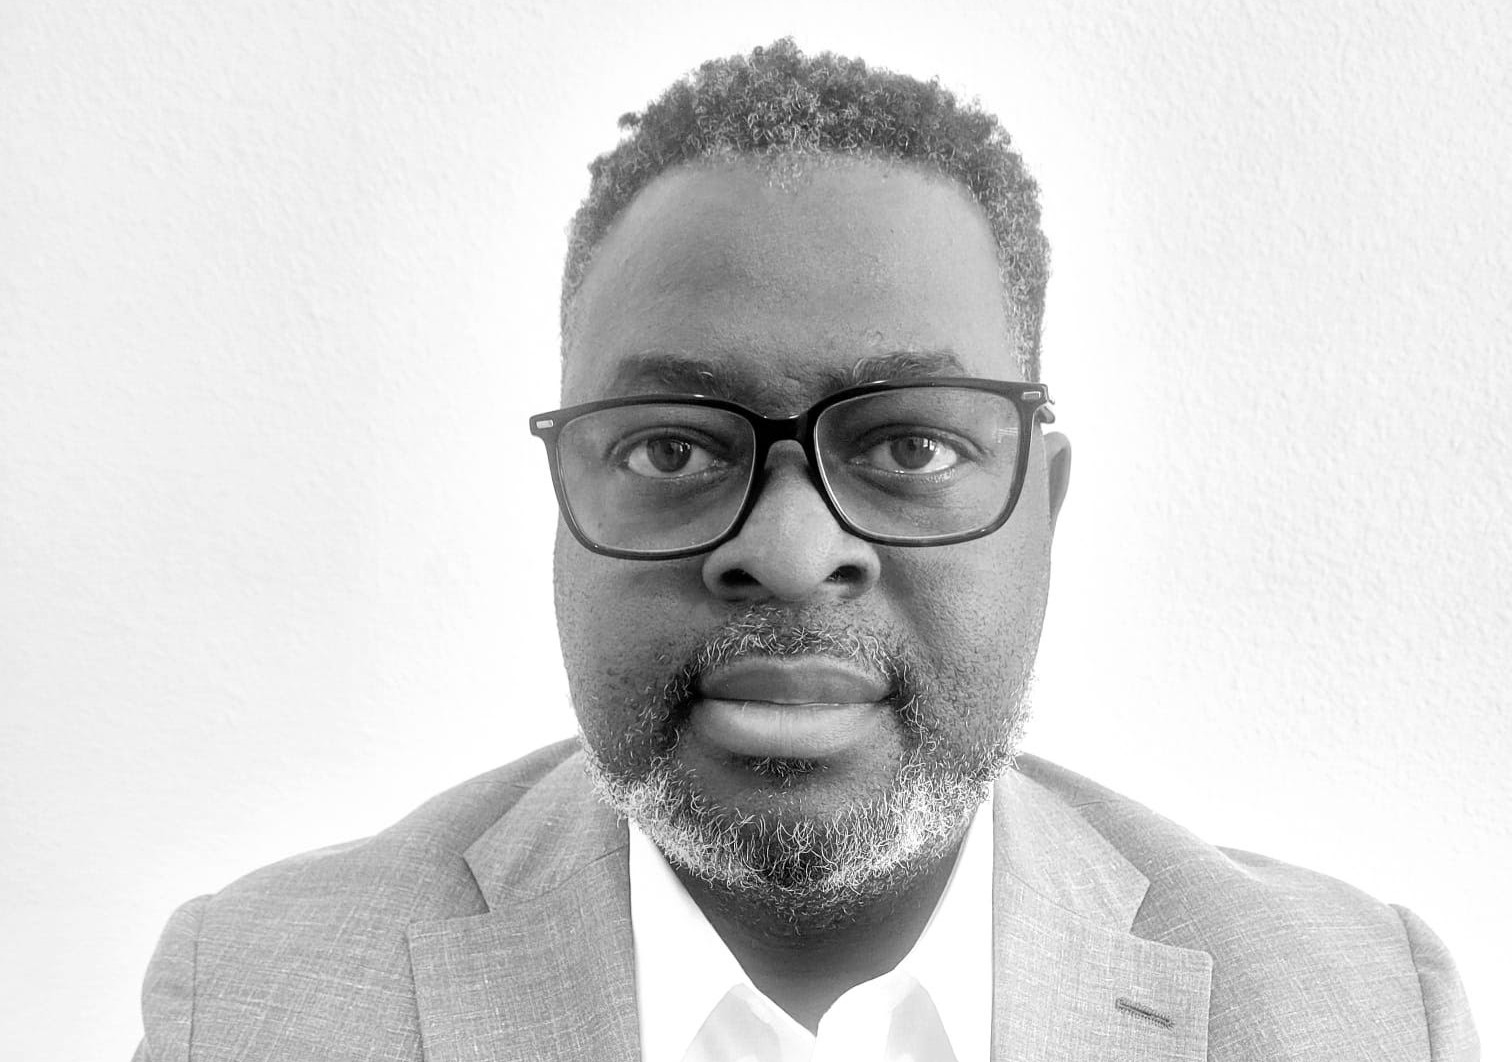
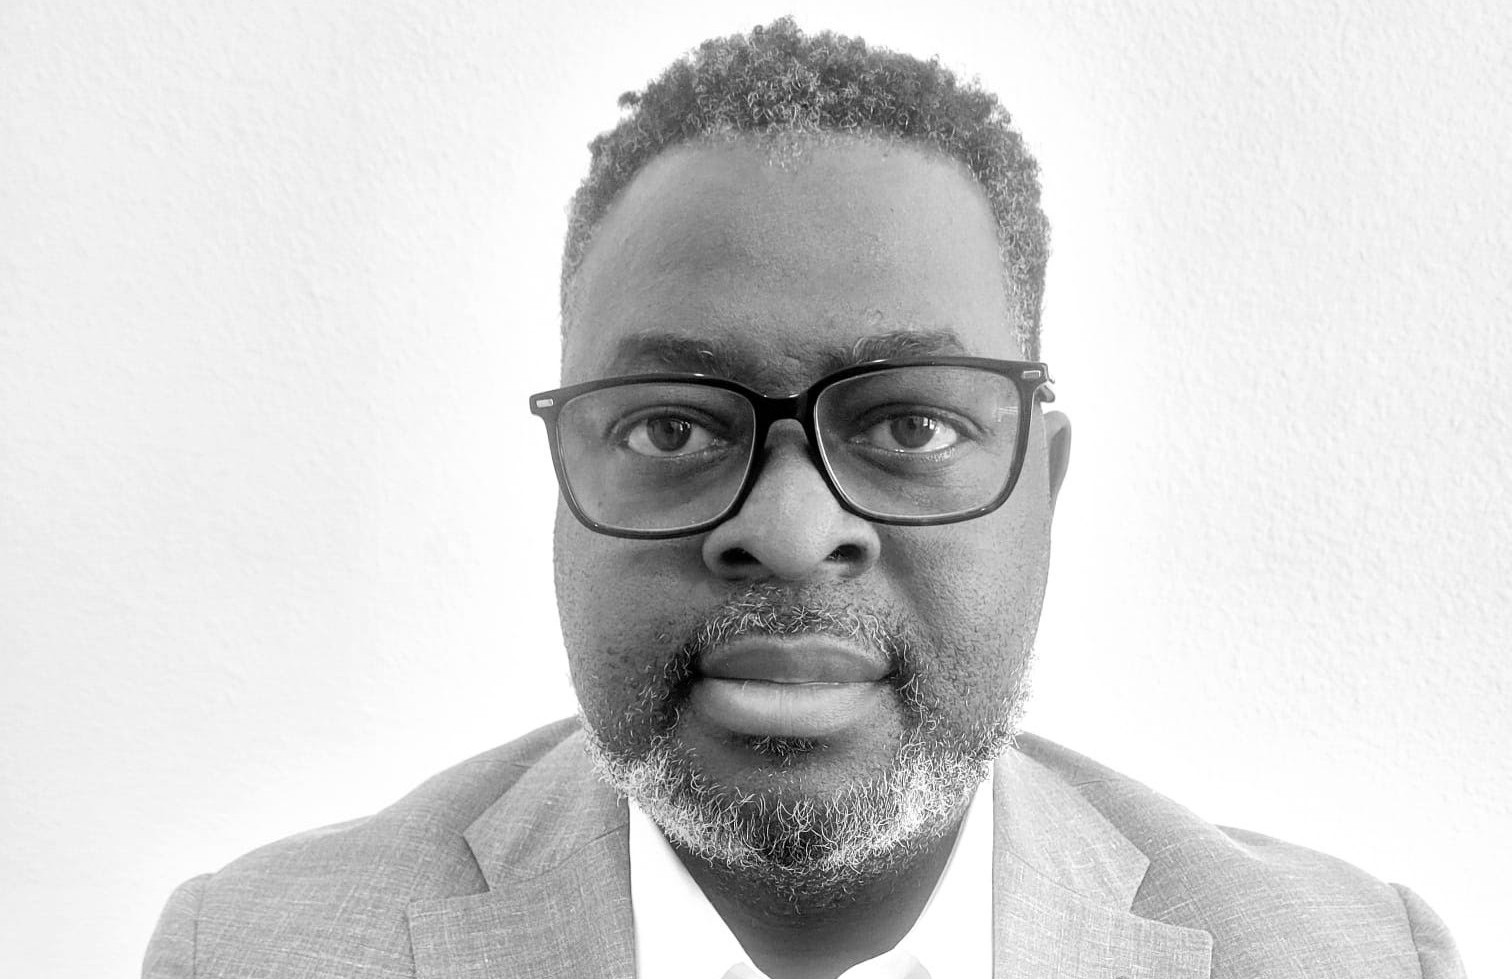
Crop profile pictures to better fit

Changed region(s): [[0.0622, 0.2758, 0.9947, 1.0], [0.373, 0.0, 0.6839, 0.2451], [0.1865, 0.9499, 0.2176, 0.9806]]

diff --git a/index.html b/index.html
@@ -279,7 +279,7 @@
             </div>
             <div class="col-md-4 mb-4">
                 <div class="card h-100">
-                    <img src="assets/MariaNy_Profile.jpg" class="card-img-top" alt="MariaNy" style="height: 220px; object-fit: cover;">
+                    <img src="assets/MariaNy_Profile.png" class="card-img-top" alt="MariaNy" style="height: 220px; object-fit: cover;">
                     <div class="card-body">
                         <h4 class="card-title">Maria Ny</h4>
                         <h5>Board Panel Director & Accounts</h5>
